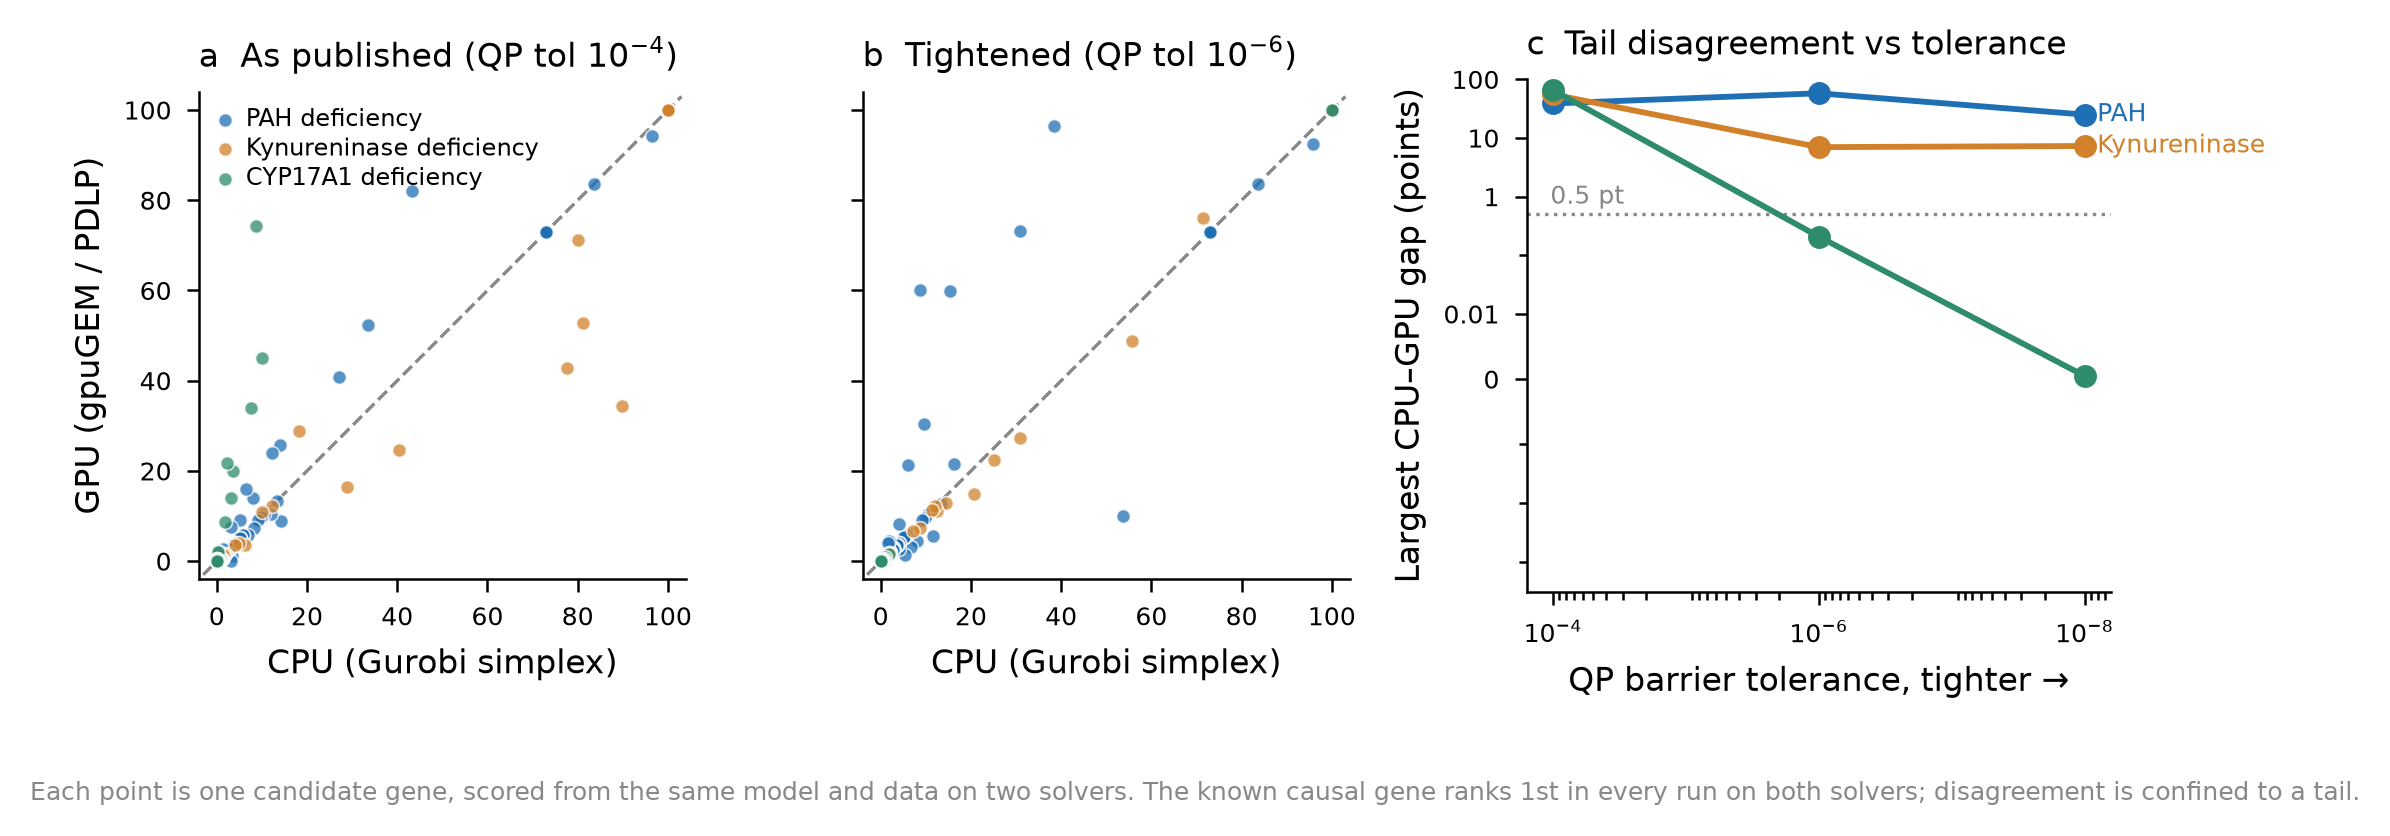
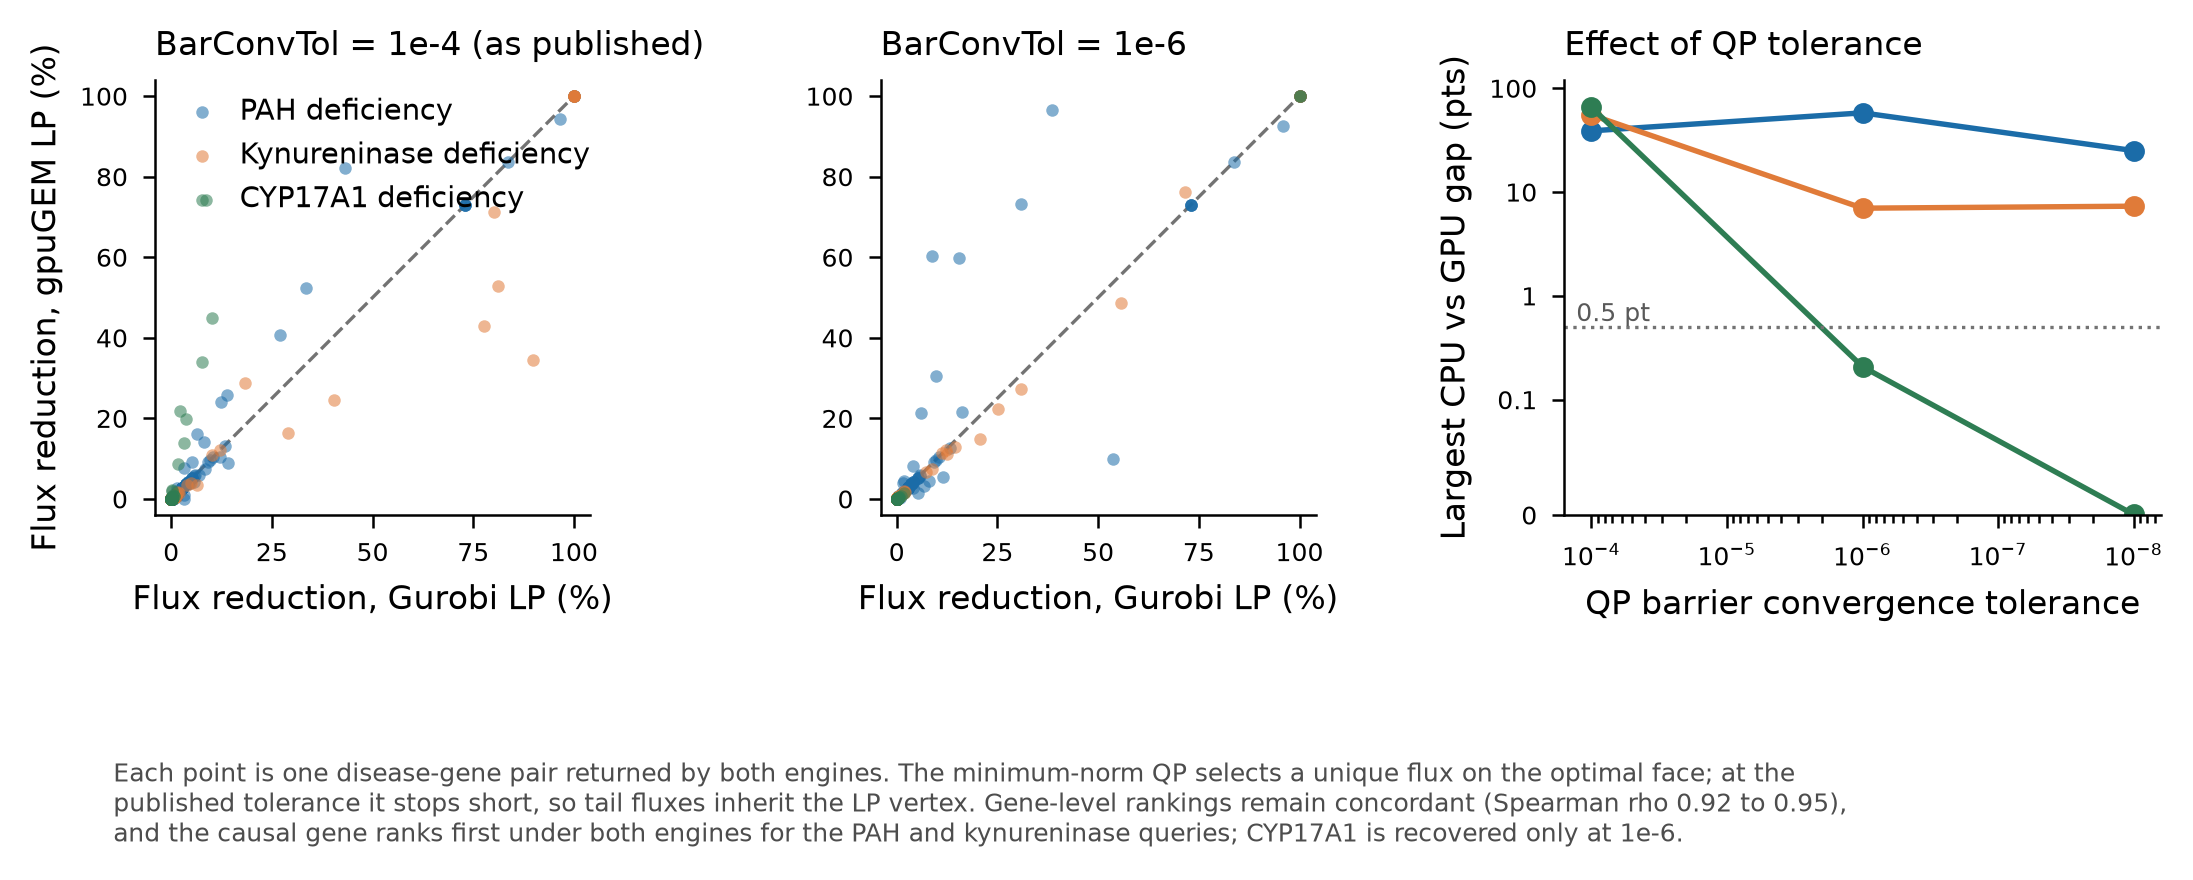
Correct the ranking comparison to gene level
The pipeline emits one row per disease-gene pair, so a gene causal for
several inborn errors occupies several consecutive rows (PAH holds the
first three rows of the phenylketonuria query).  The earlier comparison
ranked pairs, which is not the unit the manuscript's claim is about, and
it wrongly reported the published top-eight claim as failing.

At gene level the claim holds as a statement about sets: the top eight
genes are the same under both LP engines for the phenylketonuria query,
as are the top nine, but the order differs (SLC6A6 moves from rank 7 to
rank 4).  Spearman rho over the full shared list is 0.95, 0.94 and 0.92
for the three queries; top-10 overlap is 7 to 9 of 10.  The causal gene
ranks first under both engines for the phenylketonuria and kynureninase
queries.

tests/compare_rankings.py does the reduction and regenerates the
manuscript's Supplementary Table S10.  An exact duplicate row present in
every raw result file is dropped first.  The reproducibility figure
caption is corrected to say disease-gene pair.

diff --git a/application/tests/compare_rankings.py b/application/tests/compare_rankings.py
@@ -1,0 +1,164 @@
+#!/usr/bin/env python
+"""Gene-level comparison of candidate rankings produced by the two LP engines.
+
+The pipeline emits one row per disease-gene pair: a gene that is causal for
+several inborn errors appears once per disease.  A claim about "the top N
+candidate genes" is therefore not a claim about the first N rows.  This script
+reduces each ranking to one row per gene, keeping that gene's best-scoring
+disease entry, and reports the agreement between the two engines at gene level.
+
+It regenerates Supplementary Table S10 of the manuscript.
+
+Usage
+-----
+    python compare_rankings.py --results-dir <dir> --out-dir <dir>
+
+``--results-dir`` holds ``<case>_<backend>.csv`` files as written by
+``verify_against_reference.py``; backends are ``gurobi`` and ``gpugem``.
+"""
+
+from __future__ import annotations
+
+import argparse
+import sys
+from pathlib import Path
+
+import numpy as np
+import pandas as pd
+from scipy.stats import spearmanr
+
+# Ranking key, in the order the pipeline sorts by.
+SORT_KEYS = ["FluxReductionPercentage", "sumFluxWT"]
+
+# Columns that identify and score a candidate.  IEMRxns is excluded: it holds a
+# long reaction list and is not needed for the comparison.
+KEEP = ["Disease", "Gene", "FluxReductionPercentage", "sumFluxWT", "sumFluxD",
+        "Causal", "CompositeScore"]
+
+CASE_LABELS = {
+    "pah": "PAH deficiency",
+    "kynurenic": "Kynureninase deficiency",
+    "cyp17": "CYP17A1 deficiency",
+}
+CAUSAL_GENE = {"pah": "PAH", "kynurenic": "KYNU", "cyp17": "CYP17A1"}
+
+
+def load_gene_ranking(path: Path) -> pd.DataFrame:
+    """Read a results CSV and reduce it to one ranked row per gene.
+
+    Exact duplicate rows are dropped first; the raw output of every case
+    contains one.  Genes are then ranked by the pipeline's sort order and
+    reduced to their best-scoring disease entry.
+    """
+    df = pd.read_csv(path)
+    missing = [c for c in KEEP if c not in df.columns]
+    if missing:
+        raise ValueError(f"{path.name} is missing columns: {missing}")
+    df = df[KEEP].drop_duplicates()
+    df["Gene"] = df["Gene"].astype(str).str.strip()
+    ranked = (
+        df.sort_values(SORT_KEYS, ascending=False)
+          .drop_duplicates("Gene", keep="first")
+          .reset_index(drop=True)
+    )
+    ranked["rank"] = np.arange(1, len(ranked) + 1)
+    return ranked
+
+
+def compare(cpu: pd.DataFrame, gpu: pd.DataFrame) -> dict:
+    """Agreement statistics between two gene-level rankings."""
+    merged = cpu.merge(gpu, on="Gene", suffixes=("_cpu", "_gpu"))
+    if len(merged) > min(len(cpu), len(gpu)):      # guards against key blow-up
+        raise AssertionError("merge inflated the row count; duplicate genes remain")
+    rho, pval = spearmanr(merged["rank_cpu"], merged["rank_gpu"])
+
+    def prefix_depth(same_order: bool) -> int:
+        depth = 0
+        for k in range(1, min(len(cpu), len(gpu)) + 1):
+            a, b = list(cpu.head(k)["Gene"]), list(gpu.head(k)["Gene"])
+            if (a == b) if same_order else (set(a) == set(b)):
+                depth = k
+        return depth
+
+    return {
+        "n_cpu": len(cpu),
+        "n_gpu": len(gpu),
+        "n_shared": len(merged),
+        "spearman_rho": round(float(rho), 3),
+        "spearman_p": float(pval),
+        "top10_overlap": len(set(cpu.head(10)["Gene"]) & set(gpu.head(10)["Gene"])),
+        "top20_overlap": len(set(cpu.head(20)["Gene"]) & set(gpu.head(20)["Gene"])),
+        "deepest_identical_set": prefix_depth(same_order=False),
+        "deepest_identical_order": prefix_depth(same_order=True),
+    }
+
+
+def rank_of(ranking: pd.DataFrame, gene: str):
+    hit = ranking.index[ranking["Gene"] == gene]
+    return int(ranking.loc[hit[0], "rank"]) if len(hit) else None
+
+
+def main(argv: list[str] | None = None) -> int:
+    p = argparse.ArgumentParser(description=__doc__,
+                                formatter_class=argparse.RawDescriptionHelpFormatter)
+    p.add_argument("--results-dir", type=Path, required=True,
+                   help="Directory of <case>_<backend>.csv result files.")
+    p.add_argument("--out-dir", type=Path, default=Path("."),
+                   help="Where to write the table and summary CSVs.")
+    p.add_argument("--cases", nargs="+", default=list(CASE_LABELS),
+                   help="Cases to compare.")
+    p.add_argument("--top", type=int, default=10,
+                   help="Number of top genes to tabulate per case.")
+    args = p.parse_args(argv)
+    args.out_dir.mkdir(parents=True, exist_ok=True)
+
+    table_rows, summary_rows = [], []
+    for case in args.cases:
+        paths = {b: args.results_dir / f"{case}_{b}.csv" for b in ("gurobi", "gpugem")}
+        for b, path in paths.items():
+            if not path.exists():
+                print(f"missing: {path}", file=sys.stderr)
+                return 1
+        cpu, gpu = (load_gene_ranking(paths["gurobi"]), load_gene_ranking(paths["gpugem"]))
+
+        stats = compare(cpu, gpu)
+        stats.update(
+            case=case,
+            query=CASE_LABELS.get(case, case),
+            causal_gene=CAUSAL_GENE.get(case),
+            causal_rank_gurobi=rank_of(cpu, CAUSAL_GENE.get(case, "")),
+            causal_rank_gpugem=rank_of(gpu, CAUSAL_GENE.get(case, "")),
+        )
+        summary_rows.append(stats)
+
+        gpu_lookup = gpu.set_index("Gene")[["rank", "FluxReductionPercentage"]]
+        for _, row in cpu.head(args.top).iterrows():
+            hit = gpu_lookup.loc[row["Gene"]] if row["Gene"] in gpu_lookup.index else None
+            table_rows.append({
+                "Query": CASE_LABELS.get(case, case),
+                "Gene": row["Gene"],
+                "Rank_gurobi": int(row["rank"]),
+                "FluxReduction_gurobi": round(row["FluxReductionPercentage"], 2),
+                "Rank_gpugem": int(hit["rank"]) if hit is not None else None,
+                "FluxReduction_gpugem": round(hit["FluxReductionPercentage"], 2) if hit is not None else None,
+            })
+
+    table = pd.DataFrame(table_rows)
+    summary = pd.DataFrame(summary_rows)[
+        ["case", "query", "n_cpu", "n_gpu", "n_shared", "spearman_rho", "spearman_p",
+         "top10_overlap", "top20_overlap", "deepest_identical_set",
+         "deepest_identical_order", "causal_gene", "causal_rank_gurobi",
+         "causal_rank_gpugem"]
+    ]
+    table.to_csv(args.out_dir / "tableS10_ranking.csv", index=False)
+    summary.to_csv(args.out_dir / "tableS10_summary.csv", index=False)
+
+    print(table.to_string(index=False))
+    print()
+    print(summary.drop(columns=["spearman_p"]).to_string(index=False))
+    print(f"\nwritten to {args.out_dir}")
+    return 0
+
+
+if __name__ == "__main__":
+    sys.exit(main())

diff --git a/application/README.md b/application/README.md
@@ -188,10 +188,21 @@ formulas reproduce the published `FluxReductionPercentage` and `CompositeScore`
 columns exactly. The model, the wild-type reference solution and the
 gene-to-reaction mapping are therefore all correct.
 
-**Reproduces as a ranking.** The known causal gene ranks first in every run, on
-both backends: PAH for phenylketonuria, KYNU for kynureninase deficiency. The
-top-10 gene sets agree between the CPU and GPU backends on 7 to 10 of 10 genes,
-and the top-20 on 14 to 20 of 20.
+**Reproduces as a ranking.** The known causal gene ranks first under both LP
+engines: PAH for phenylketonuria, KYNU for kynureninase deficiency. Over the
+full shared candidate list the two rankings are strongly concordant, with
+Spearman's rho of 0.95, 0.94 and 0.92 for the three cases. The top-10 gene sets
+agree on 7 to 9 of 10 genes and the top-20 on 15 to 18 of 20.
+
+> **Unit of ranking.** The pipeline emits one row per *disease-gene pair*, so a
+> gene causal for several inborn errors appears several times (PAH occupies the
+> first three rows of the phenylketonuria query). Comparing rankings row by row
+> therefore does not answer a question posed about genes. All gene-level figures
+> above are computed after reducing to one row per gene, keeping its
+> best-scoring disease entry. `tests/compare_rankings.py` does this reduction
+> and regenerates the manuscript's Supplementary Table S10. One exact duplicate
+> row is also present in the raw output of every case (identical disease, gene
+> and scores) and is dropped first.
 
 **Does not reproduce gene by gene, in the tail.** The patient-side flux
 (`sumFluxD`) of individual low-ranked genes is not determined by the method as
